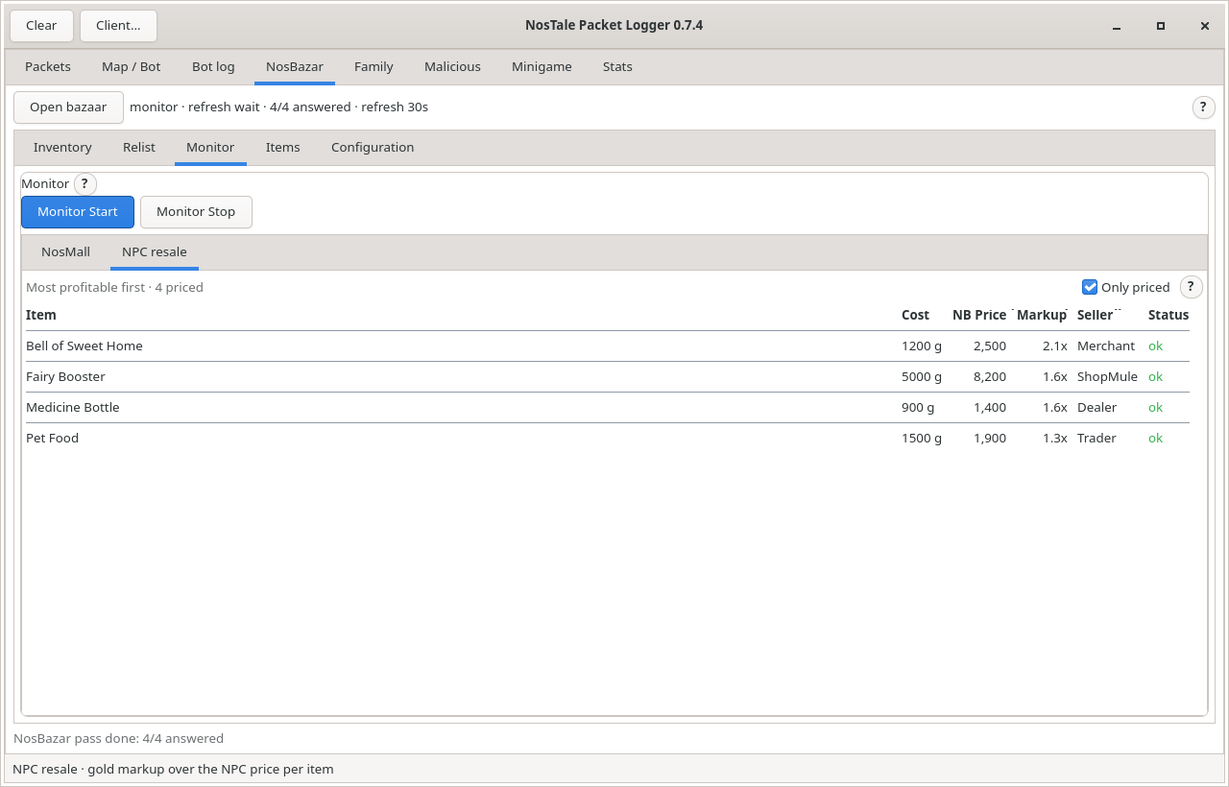
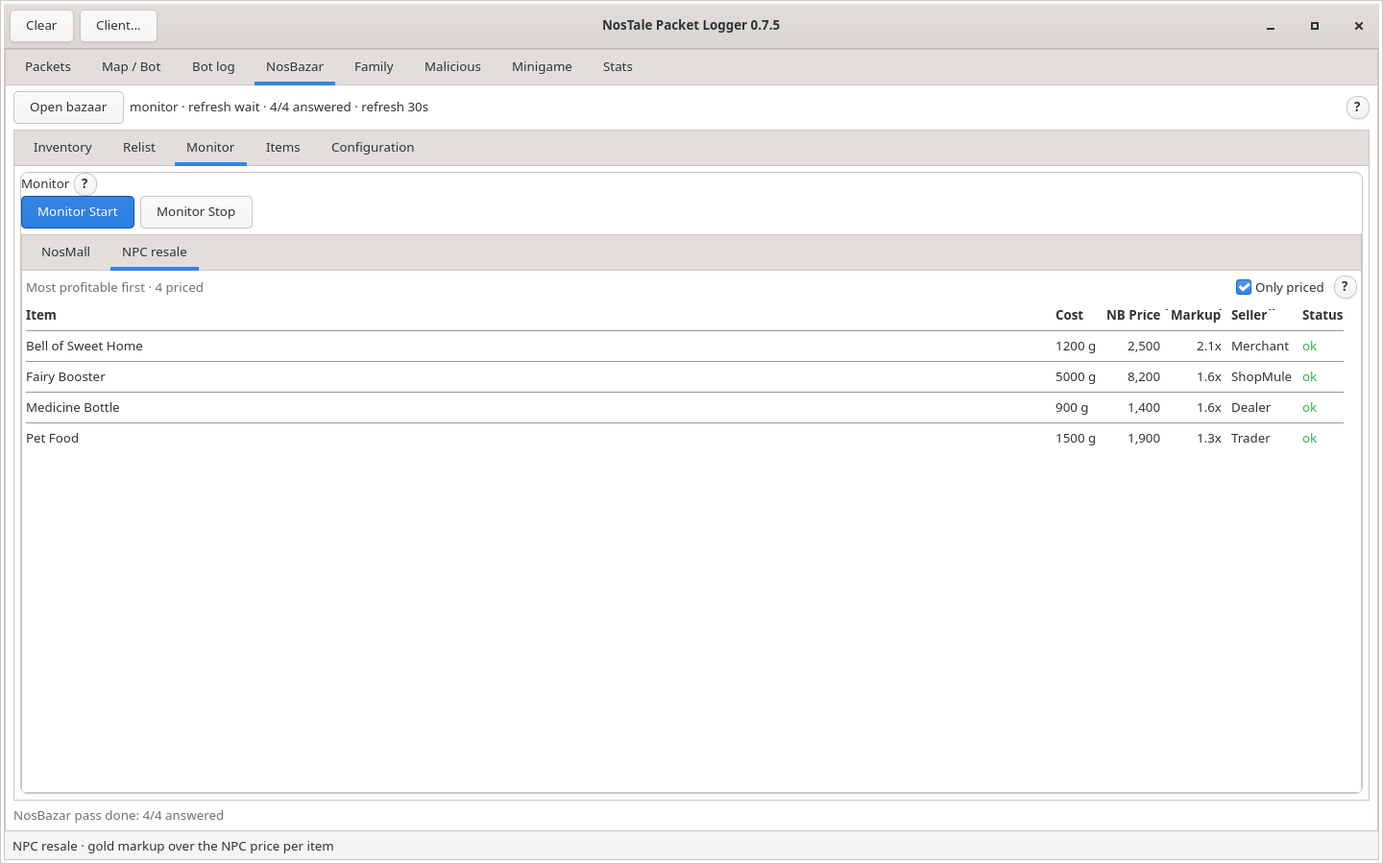
NosBazar relist: drop the allow-live checkbox, Relist Start is the gate
The Relist section required ticking "Allow live re-listing (changes your
listings)" before every start and reset it on every stop. Remove the
checkbox and the check: Relist Start itself is the user's go-ahead, and
the item floor, character name and relist-set ticks already guard what
it touches.

Update the smokes (relist/change/inventory scan), the help popover, the
docs and the Relist screenshot; host 0.7.5.

Changed region(s): [[0.0, 0.0, 1.0, 1.0], [0.9375, 0.0305, 0.9688, 0.061], [0.7812, 0.5488, 0.8125, 0.5793]]

diff --git a/linux/host/ntpl/gui.py b/linux/host/ntpl/gui.py
@@ -694,7 +694,6 @@ class Application(Gtk.Application):
         # Two-step confirmation for the destructive cleanup button.
         self._nosmall_prune_armed_at = 0.0
         self._nosmall_prune_count = 0
-        self.bazar_live_relist = None
         self.bazar_refresh_spin = None
         self.bazar_npc_entry = None
         self.bazar_character_entry = None
@@ -1447,9 +1446,6 @@ class Application(Gtk.Application):
             self.bazar_timer = None
         if self.bazar.running:
             self.bazar.stop(reason)
-        # Never leave the live-relist gate armed after a stop.
-        if self.bazar_live_relist is not None:
-            self.bazar_live_relist.set_active(False)
         self._bazar_update_info()
         self._bazar_update_relist_info()
 
@@ -1514,11 +1510,6 @@ class Application(Gtk.Application):
         return repaired
 
     def _bazar_start_relist(self) -> None:
-        if self.bazar_live_relist is None or not self.bazar_live_relist.get_active():
-            self._bazar_log(
-                "relisting is disabled; tick 'Allow live re-listing' first"
-            )
-            return
         if self.client is None or not self.client.connected:
             self._bazar_log("not connected")
             return
@@ -4223,15 +4214,6 @@ class Application(Gtk.Application):
         page.set_margin_end(6)
         content = Gtk.Box(orientation=Gtk.Orientation.VERTICAL, spacing=6)
 
-        self.bazar_live_relist = Gtk.CheckButton(
-            label="Allow live re-listing (changes your listings)"
-        )
-        self.bazar_live_relist.set_active(False)
-        self.bazar_live_relist.set_tooltip_text(
-            "Required for Relist Start; changes your prices and spends the fee."
-        )
-        content.append(self.bazar_live_relist)
-
         self.bazar_character_entry = Gtk.Entry()
         self.bazar_character_entry.set_placeholder_text("your character")
         self.bazar_character_entry.set_max_length(40)
@@ -4332,9 +4314,9 @@ class Application(Gtk.Application):
                     "selected), plus Select all shown and Unselect all. "
                     "Select an item, set the "
                     "exact Item vnum, the inventory Tab and the Amount, "
-                    "then a positive Min price (the per-unit floor). Tick "
-                    "Allow live re-listing and fill Character with your own "
-                    "name so the host never undercuts you. Relist Start "
+                    "then a positive Min price (the per-unit floor), and "
+                    "fill Character with your own name so the host never "
+                    "undercuts you. Relist Start needs nothing else: it "
                     "searches only the relist set and sends one c_reg per "
                     "eligible item per pass at cheapest minus one gold, "
                     "but never below the floor. If you already have a "

diff --git a/linux/test/gui_bazar_relist_smoke.py b/linux/test/gui_bazar_relist_smoke.py
@@ -1,8 +1,8 @@
 """Headless NosBazar relist smoke test.
 
-Exercises the risky half of the feature: the live-relist gate must do nothing
-until the checkbox is ticked, then the controller must undercut the fake
-cheapest listing by one gold and send the exact ``c_reg`` packet.
+Exercises the risky half of the feature: **Relist Start** is the only gate,
+then the controller must undercut the fake cheapest listing by one gold and
+send the exact ``c_reg`` packet.
 """
 
 from __future__ import annotations
@@ -57,14 +57,9 @@ def main() -> int:
             )
             app.bazar.set_items([item], character="root1", refresh=30)
             app.bazar_character_entry.set_text("root1")
-            # First attempt with the safety gate off: nothing must go out.
+            # Relist Start is the only gate; no extra checkbox to tick.
             app._bazar_start_relist()
-            gate_text = app.bazar_status.get_text() or ""
-            result["gate"] = (
-                not app.bazar.running and "disabled" in gate_text
-            )
-            app.bazar_live_relist.set_active(True)
-            app._bazar_start_relist()
+            result["gate"] = app.bazar.running
             GLib.timeout_add(5000, check)
         except Exception as exc:  # noqa: BLE001
             result["detail"] = f"start exception: {exc!r}"

diff --git a/linux/test/gui_inventory_scan_smoke.py b/linux/test/gui_inventory_scan_smoke.py
@@ -320,7 +320,6 @@ def main() -> int:
                 None if relist_item is None else relist_item.amount
             )
             app.bazar_character_entry.set_text("root1")
-            app.bazar_live_relist.set_active(True)
             app._bazar_start_relist()
             result["relist_mode"] = app.bazar.mode
             # A list rebuilt from later updates alone must be marked partial

diff --git a/linux/test/gui_bazar_change_smoke.py b/linux/test/gui_bazar_change_smoke.py
@@ -60,7 +60,6 @@ def main() -> int:
             )
             app.bazar.set_items([item], character="root1", refresh=30)
             app.bazar_character_entry.set_text("root1")
-            app.bazar_live_relist.set_active(True)
             app._bazar_start_relist()
             GLib.timeout_add(5000, check)
         except Exception as exc:  # noqa: BLE001

diff --git a/linux/host/ntpl/__init__.py b/linux/host/ntpl/__init__.py
@@ -16,7 +16,7 @@ from .protocol import (
     default_port,
 )
 
-__version__ = "0.7.4"
+__version__ = "0.7.5"
 
 __all__ = [
     "DEFAULT_HOST",

diff --git a/CLAUDE.md b/CLAUDE.md
@@ -32,7 +32,7 @@ the new window (or run `inject.sh` yourself).
 | `linux/` build | `make -C linux all test-host` is warning-free; all three outputs are PE32 i386. |
 | Linux host tests | 363/363 pass (`make -C linux host-test`); the native `speed-test` and `key-test` pass too. |
 | Game/packet DB | `ntpl db build` fills `~/.config/ntpl/nostale.db` (`NTPL_DB`) from the client archives plus 14 public projects cloned under `~/.cache/ntpl/sources` (`NTPL_SOURCE_CACHE`): 7,805 `Item.dat`, 2,723 `monster.dat`, 1,964 `Skill.dat`, 779 maps, 3,639 NosMall records / **1,184 searchable groups**, 1,004 indexed packet definitions (NosSmooth, NosCore.Packets, OpenNos, go-noskit, NosBazar, Gfless, auth/crypto, human-readable local wiki). Source text/license/commit kept in `source_files`; `ntpl db stats|sources|packets|items|nosmall` query it. The full NosMall catalog is `ntpl db nosmall --export FILE --all` or the GUI **Import NosMall…** picker (DB groups, `c_blist` built per group; the picker lists only groups with a known ND cost and excludes pets, fairies and partner supplies). NosMall ND prices are not in the client data; the curated reference costs plus the costs of already-configured items are the price map, so unpriced groups are not importable. Docs: `docs/database.md`. |
-| NosBazar tab | Fourth GUI page, ported from `TaraJura/Nostale-NB`: searches configured `c_blist` vnums (2.5 s pacing, one in flight, retry pass, waiting state), shows the cheapest listing (seller field 2, price field 6, vnum field 3), computes gold/ND or NPC markup, and optionally relists with `c_reg` (explicit checkbox + character name + positive `min_price` + inventory slot). The Bibi entity id/option are learned from the user's own `npc_req`/`n_run` or the DLL log (`spawnlog.load_bazaar_open`), but an id this map's entity list knows as a non-Bibi entity is refused (entity ids are per map instance; live 2026-11-23 a stale id opened Carve Runes), so Start waits until a real Bibi is visible instead of opening a random NPC dialog; inventory is `inv`/`ivn` in `WorldState.inventory`, backfilled from the log (`spawnlog.load_inventory`) and parsed by `engine.parse_inventory_token`, which keeps equipment bags 0/6/7, extra fields, quantity-0 rows and bound negative vnums. The NosBazar page has a second-level navbar: **Inventory**, **Relist**, **Monitor**, **Items** and **Configuration**. **Inventory** loads names/NPC prices from the local DB first (`database.item_info`, `Item.dat` fallback) as soon as the section opens (an empty lookup retries on a later page show; **Configuration → Reload names** forces a reload after rebuilding a stale DB, no restart) and shows every slot with its Item.dat name/NPC price and known ND cost; the **Monitor** table, **Relist** list and **Items** list show the same real name for each item's vnum (exact `vnum`, else the first resolving search-group vnum), using the configured `name` only when no vnum resolves — the shortcut stays the config/result key, appears in the item's tooltip with the search vnums, and is what the editor's **Name** field edits; **Set up relist…** adds one checked item with its exact vnum/tab/amount and opens **Relist**, whose compact editor sets vnum/tab/amount/min, marks items ready/needs-floor/needs-vnum-tab/not-relisting and starts `c_reg`; the **Relist** list is the `BazarItem.relist` set, with a per-row tick to add or remove an item (removal keeps it configured, monitored and its floor), **Add from Items** / **Add from Inventory** / **Remove from relisting** buttons, an **Only relisting** filter and Ctrl+click multi-selection behind **Group actions…** (**Select all shown**, **Unselect all**, **Relist all shown**, **Stop relisting all shown**, **Relist selected**, **Stop relisting selected**; one config save per group action); a tick updates its row in place and every render restores the scroll adjustment, so a scrolled list does not jump to the top; the **Items** editor has **Monitor**/**Relist** tracking switches; `Relist Start` queues only `BazarController.relist_items()`, while Monitor searches every `enabled_items()` (a config without the flag infers `relist` from `min_price > 0`; inventory additions start monitor-only); the server acknowledges an accepted `c_reg` with `rc_reg` (3 s timeout → `register ignored (no rc_reg)`), but only with the NosBazar window open (`wopen 32`; `rc_blist` is answered without it — live 2026-11-23 it answered while Carve Runes was open and every c_reg was ignored); when the bazaar was already open before the host attached the server sends no new `wopen`, so a verified Bibi dialog (`npc_req 2 <id> 460`; Carve Runes opens 11009 and is never clicked) plus the listing answer is accepted and the scan continues; a visible Bibi Basar is opened through `npc_req`/`n_run`; a client whose own shortcut opens the bazaar (FrosTale: a bare `c_skill` answered by `wopen 32`, learned live or from the DLL log by `spawnlog.load_bazaar_skill`) is replayed first; with none visible the controller uses the portable NosBazar medal (vnum 1955, `u_i 1 <charId> <bag> <slot> 0 0`) and waits for `wopen 32` (a stale unknown NPC id is only tried when no medal exists); each relist pass asks the seller tab (`c_slist 0 0 0` → `rc_slist`, parsed by `parse_rc_slist` with listing id, vnum, sold amount, amount and price): when our own listing of the item has **sold 0** the pass reprices it with the client's own Change action `c_mod 0 1 <listingId> <vnum> <amount> <price>` (no inventory slot needed; confirmed by the refreshed seller list carrying the new price; live-verified packet shape 2026-11-23) instead of adding a new listing, and only a listing with any amount sold (Change gone) or no own listing gets `c_reg`; `build_register_packet` sends the client's exact twelve-field `c_reg` and its fee is `max(50, int(price*amount*0.0005))` — the live server silently drops a registration whose fee is below the 50-gold minimum (2026-11-23: failures carried 4/23/28 gold, accepted packets at least 50); the DLL log is seeded once per attach (Rescan forces a re-read) and the reader re-reads the DLL port file on every failed connect, so a reused Windows PID with a stale port file (live 2026-11-23: 47823 vs the DLL's 47822) recovers by itself; Relist Start repairs only the first constant for Main/Etc items (`unk1 = 8 + INDEX[0]`; `unk2` is item-specific and left as configured); a repeated click on the only selected relist row unselects it; **Price all** adds one search per distinct inventory template (deduped by absolute vnum) and starts Monitor — never a relist. **Monitor** has a third-level navbar: **NosMall** (positive `nos_cost`; gold/ND) and **NPC resale** (NPC `npc_cost`; the Markup column is listing ÷ NPC price, e.g. Pet Food or Bell of Sweet Home); one Start/Stop searches both, each view has its own **Only priced** and row count, and the editor's Cost type chooses the view (NPC gold auto-fills from Item.dat when left at 0). **Items** is the full search editor/import, **Configuration** the Bibi id/refresh/config file plus **Reload names** (re-read item names after a DB rebuild). Equipment quantity 0 counts as amount 1; negative vnums are searched by magnitude but cannot be relisted. The server sends `inv` only at login; when the 16 MB DLL log was truncated before the dump (`spawnlog.log_was_truncated`), the Inventory section says so (a list built from later `ivn` updates alone is marked partial) and a relog/change channel with the window open fills it automatically. Every complete inventory is cached per character at `~/.config/ntpl/inventory-<char_id>.json` (`NTPL_INVENTORY_DIR`) and loaded when live/log data is missing, shown as `cached <time>`. Proof: `gui_inventory_scan_smoke.py` (including cache save/restore), `gui_relist_track_smoke.py` (relist-set ticks, add/remove, persistence), `test_inventory_cache.py`. Live capture 2026-11-19: NPC 10284, `n_run 60 0 2 10284`, `wopen 32 2 717`, 15-field `rc_blist` entries (`ownerName` 2, `vnum` 3, `amount` 4, `price` 6); the DLL's 2048-byte slot truncates long answers, so the parser keeps every intact entry, takes the minimum visible price and flags `truncated`. Config per client: `~/.config/ntpl/bazar-<pid>.json` (`NTPL_BAZAR_CONFIG` overrides). Docs: `docs/bazar.md`, `docs/protocol/bazaar.md`. |
+| NosBazar tab | Fourth GUI page, ported from `TaraJura/Nostale-NB`: searches configured `c_blist` vnums (2.5 s pacing, one in flight, retry pass, waiting state), shows the cheapest listing (seller field 2, price field 6, vnum field 3), computes gold/ND or NPC markup, and optionally relists (a character name + positive `min_price`; Relist Start is the only switch, there is no extra allow-live checkbox). The Bibi entity id/option are learned from the user's own `npc_req`/`n_run` or the DLL log (`spawnlog.load_bazaar_open`), but an id this map's entity list knows as a non-Bibi entity is refused (entity ids are per map instance; live 2026-11-23 a stale id opened Carve Runes), so Start waits until a real Bibi is visible instead of opening a random NPC dialog; inventory is `inv`/`ivn` in `WorldState.inventory`, backfilled from the log (`spawnlog.load_inventory`) and parsed by `engine.parse_inventory_token`, which keeps equipment bags 0/6/7, extra fields, quantity-0 rows and bound negative vnums. The NosBazar page has a second-level navbar: **Inventory**, **Relist**, **Monitor**, **Items** and **Configuration**. **Inventory** loads names/NPC prices from the local DB first (`database.item_info`, `Item.dat` fallback) as soon as the section opens (an empty lookup retries on a later page show; **Configuration → Reload names** forces a reload after rebuilding a stale DB, no restart) and shows every slot with its Item.dat name/NPC price and known ND cost; the **Monitor** table, **Relist** list and **Items** list show the same real name for each item's vnum (exact `vnum`, else the first resolving search-group vnum), using the configured `name` only when no vnum resolves — the shortcut stays the config/result key, appears in the item's tooltip with the search vnums, and is what the editor's **Name** field edits; **Set up relist…** adds one checked item with its exact vnum/tab/amount and opens **Relist**, whose compact editor sets vnum/tab/amount/min, marks items ready/needs-floor/needs-vnum-tab/not-relisting and relists (the in-game Change `c_mod` for an unsold own listing, else a new `c_reg`); the **Relist** list is the `BazarItem.relist` set, with a per-row tick to add or remove an item (removal keeps it configured, monitored and its floor), **Add from Items** / **Add from Inventory** / **Remove from relisting** buttons, an **Only relisting** filter and Ctrl+click multi-selection behind **Group actions…** (**Select all shown**, **Unselect all**, **Relist all shown**, **Stop relisting all shown**, **Relist selected**, **Stop relisting selected**; one config save per group action); a tick updates its row in place and every render restores the scroll adjustment, so a scrolled list does not jump to the top; the **Items** editor has **Monitor**/**Relist** tracking switches; `Relist Start` queues only `BazarController.relist_items()`, while Monitor searches every `enabled_items()` (a config without the flag infers `relist` from `min_price > 0`; inventory additions start monitor-only); the server acknowledges an accepted `c_reg` with `rc_reg` (3 s timeout → `register ignored (no rc_reg)`), but only with the NosBazar window open (`wopen 32`; `rc_blist` is answered without it — live 2026-11-23 it answered while Carve Runes was open and every c_reg was ignored); when the bazaar was already open before the host attached the server sends no new `wopen`, so a verified Bibi dialog (`npc_req 2 <id> 460`; Carve Runes opens 11009 and is never clicked) plus the listing answer is accepted and the scan continues; a visible Bibi Basar is opened through `npc_req`/`n_run`; a client whose own shortcut opens the bazaar (FrosTale: a bare `c_skill` answered by `wopen 32`, learned live or from the DLL log by `spawnlog.load_bazaar_skill`) is replayed first; with none visible the controller uses the portable NosBazar medal (vnum 1955, `u_i 1 <charId> <bag> <slot> 0 0`) and waits for `wopen 32` (a stale unknown NPC id is only tried when no medal exists); each relist pass asks the seller tab (`c_slist 0 0 0` → `rc_slist`, parsed by `parse_rc_slist` with listing id, vnum, sold amount, amount and price): when our own listing of the item has **sold 0** the pass reprices it with the client's own Change action `c_mod 0 1 <listingId> <vnum> <amount> <price>` (no inventory slot needed; confirmed by the refreshed seller list carrying the new price; live-verified packet shape 2026-11-23) instead of adding a new listing, and only a listing with any amount sold (Change gone) or no own listing gets `c_reg`; `build_register_packet` sends the client's exact twelve-field `c_reg` and its fee is `max(50, int(price*amount*0.0005))` — the live server silently drops a registration whose fee is below the 50-gold minimum (2026-11-23: failures carried 4/23/28 gold, accepted packets at least 50); the DLL log is seeded once per attach (Rescan forces a re-read) and the reader re-reads the DLL port file on every failed connect, so a reused Windows PID with a stale port file (live 2026-11-23: 47823 vs the DLL's 47822) recovers by itself; Relist Start repairs only the first constant for Main/Etc items (`unk1 = 8 + INDEX[0]`; `unk2` is item-specific and left as configured); a repeated click on the only selected relist row unselects it; **Price all** adds one search per distinct inventory template (deduped by absolute vnum) and starts Monitor — never a relist. **Monitor** has a third-level navbar: **NosMall** (positive `nos_cost`; gold/ND) and **NPC resale** (NPC `npc_cost`; the Markup column is listing ÷ NPC price, e.g. Pet Food or Bell of Sweet Home); one Start/Stop searches both, each view has its own **Only priced** and row count, and the editor's Cost type chooses the view (NPC gold auto-fills from Item.dat when left at 0). **Items** is the full search editor/import, **Configuration** the Bibi id/refresh/config file plus **Reload names** (re-read item names after a DB rebuild). Equipment quantity 0 counts as amount 1; negative vnums are searched by magnitude but cannot be relisted. The server sends `inv` only at login; when the 16 MB DLL log was truncated before the dump (`spawnlog.log_was_truncated`), the Inventory section says so (a list built from later `ivn` updates alone is marked partial) and a relog/change channel with the window open fills it automatically. Every complete inventory is cached per character at `~/.config/ntpl/inventory-<char_id>.json` (`NTPL_INVENTORY_DIR`) and loaded when live/log data is missing, shown as `cached <time>`. Proof: `gui_inventory_scan_smoke.py` (including cache save/restore), `gui_relist_track_smoke.py` (relist-set ticks, add/remove, persistence), `test_inventory_cache.py`. Live capture 2026-11-19: NPC 10284, `n_run 60 0 2 10284`, `wopen 32 2 717`, 15-field `rc_blist` entries (`ownerName` 2, `vnum` 3, `amount` 4, `price` 6); the DLL's 2048-byte slot truncates long answers, so the parser keeps every intact entry, takes the minimum visible price and flags `truncated`. Config per client: `~/.config/ntpl/bazar-<pid>.json` (`NTPL_BAZAR_CONFIG` overrides). Docs: `docs/bazar.md`, `docs/protocol/bazaar.md`. |
 | Headless client | `ntpl headless` ports NosBazar's login cipher, `NoS0577`/`NsTeST` and world handshake to Python. Live 2026-11-08: the login server at `79.110.84.75:4000` answers `failc 1` to an invalid token, proving the packet layout, client version/hash and login cipher. The v2 email/password login is **live-validated (201)**; without an identity file the client signs in through gameforge.com's own form in headless Chrome (Node/CDP; the site solves its PoW challenge) and **iovation returns 200**. The final `thin/codes` call returns `403 Not allowed to create code` for browser-generated devices (the official client adds a `codeId` authorization ticket; Gfless uses a captured identity). A 30-value identity (`--identity`) or a launcher token (`--token-file`) is needed for the game token. The **image-drop captcha** is handled in one GTK window; the website PoW is handled by the site. Docs: `docs/headless.md`. |
 | MCP (agent access) | `python3 -m ntpl mcp` speaks MCP JSON-RPC over stdio and exposes 22 tools (state, entities, drops, map, portals, time-spaces, A* path, spells, move/travel, attack/cast, raw send, rest, resync, pickup, wait, memory). It owns the DLL's single host connection and rebroadcasts it on `127.0.0.1:47900`; run the GUI with `--port 47900`. The DLL port is discovered from its `C:\ntpl-<pid>.port` file (the DLL may have fallen back from 47821 to 47822+). The DLL accepts a host only while none is connected (a second connection waits in the backlog), so a GUI→MCP handover pauses the GUI and destroys its socket; the GUI reconnects afterwards. At startup the service seeds `world.entities` from the attached client's log (`spawnlog.load_entities`: `in`/`mv`/`tp`/`out`, map-change clears), so stationary monsters are known. `game_resync` sends `walk -1 -1 0 10` and applies the server's `tp` when the client desyncs after a warp. `.mcp.json` is committed; docs in `docs/mcp.md` and `docs/autonomous-play.md`. |
 | Autonomous play | Playbook in `docs/autonomous-play.md`: observe → decide → act → confirm → survive. Live 2026-11-22 on client winPID 1996 (char 10170): Ranger card 903 equipped (`u_i … 6 0`, server `sc`/`ivn`/`eq`/`sp`), Warp Tower NPC 955/entity 3095 dialog 439 → `n_run 16 1 2 3095` → map 20 Mountain Cave 1, `walk -1 -1` resync → `tp 15 96`, then a Wolf (vnum 200) killed with skill 833 (`su` HP 4366→0) and two attacking wolves killed in self-defence; final HP 91%, GUI reconnected, game never closed. |

diff --git a/docs/bazar.md b/docs/bazar.md
@@ -97,8 +97,9 @@ full-width section: **Inventory**, **Relist**, **Monitor**, **Items** and
    shows the real item name too. **Import NosMall…** adds whole catalog
    groups with a ready `c_blist` packet; **New** and **Delete** edit the
    list.
-7. To relist, tick **Allow live re-listing (changes your listings)** in the
-   **Relist** section and click **Relist Start**. **Relist Stop** stops it.
+7. To relist, click **Relist Start** in the **Relist** section. **Relist
+   Stop** stops it. (Relist Start is the only switch; there is no extra
+   "allow live re-listing" checkbox.)
 
 ## Monitor views
 
@@ -237,8 +238,7 @@ ivn 0 30.885.0.0.0.0.0                     # one equipment slot
   has one; otherwise a positive Item.dat NPC price becomes **NPC gold** cost,
   so the profit column still works. Both can be cleared in the editor.
 - **Price all** adds every distinct inventory item and starts **Monitor**
-  (search only). It does not change listings even when live re-listing is
-  armed; use **Relist Start** for that.
+  (search only). It never changes listings; use **Relist Start** for that.
 
 ## Item names
 
@@ -311,10 +311,9 @@ row by itself: tick **Relist** (or use Set up relist… / Add from…) to put
 the item in the set.
 
 To run it:
-1. Tick **Allow live re-listing (changes your listings)**.
-2. Fill **Character** with your exact character name (used to recognise your
+1. Fill **Character** with your exact character name (used to recognise your
    own listing).
-3. Click **Relist Start**.
+2. Click **Relist Start** — it is the only gate, nothing else to tick.
 
 The controller opens the bazaar if needed, asks the seller tab for our own
 listings (`c_slist 0 0 0`), searches only the relist set at the 2.5 s
@@ -375,9 +374,8 @@ temporary file). Before a client is attached the tab starts empty; when a
 client attaches and has no per-client file, `~/.config/ntpl/bazar.json` is
 loaded as a seed and saved per-client on the next change. The **Configuration**
 section holds the Bibi id, refresh interval, this file and **Reload names**
-(re-read item names after rebuilding the database); the Character name and
-live-relisting gate live in the **Relist** section because they only apply to
-relisting.
+(re-read item names after rebuilding the database); the Character name lives
+in the **Relist** section because it only applies to relisting.
 
 Example:
 
@@ -510,9 +508,10 @@ Items list and the Relist list from the shortcut to the real name without
 overwriting unsaved editor values, that the row copy label and the Delete
 message (even while a pass stops) use the real name, that **Reload names**
 drops the one-shot name cache, and that no `c_reg` was sent.
-`gui_bazar_relist_smoke.py` checks that the live-relist gate blocks the first
-attempt and then asserts the exact `c_reg` packet and the `register-sent`
-status. `gui_inventory_scan_smoke.py` feeds the live inventory shapes
+`gui_bazar_relist_smoke.py` starts the relist with a plain **Relist Start**
+(no extra checkbox) and asserts the exact `c_reg` packet and the
+`register-sent` status; `gui_bazar_change_smoke.py` asserts the `c_mod`
+change path instead. `gui_inventory_scan_smoke.py` feeds the live inventory shapes
 (3/5/7-field tokens, quantity 0, negative vnums), asserts the Inventory
 section rows/names/fields, adds one item and then prices the whole inventory
 without duplicates, checks **Set up relist…** switches to the Relist section

diff --git a/docs/troubleshooting.md b/docs/troubleshooting.md
@@ -118,7 +118,7 @@
 | Relist item says `register ignored (no rc_reg)` | the server silently dropped the `c_reg`: the bazaar window was not open, the slot or item constants no longer match the live inventory, or the listing fee was below the 50-gold minimum (before 0.7.2 the cheap listings sent 4/23/28 gold and were ignored) | check the window first (`wopen 32`); then press **Relist Start** again — it repairs `unk1 = 8 + INDEX[0]` for Main/Etc items (`unk2` stays as configured), sends the client's exact packet and charges `max(50, 0.05 %)`; verify the listing in the bazaar |
 | Relist added a second listing instead of changing the first | the in-game **Change** action disappears as soon as any amount of that listing has sold; the bot can then only add | expected: the relist reprices an unsold listing with `c_mod` (status `price changed (c_mod)`) and adds with `c_reg` only when Change is unavailable. Cancel the stale listing by hand if you do not want two |
 | Relist says `price change not confirmed` | the `c_mod` went out but no refreshed seller list with the new price arrived (rate limit, or the Change action was no longer offered) | press **Relist Start** again; the next pass re-reads the seller tab and either changes another unsold listing or adds one |
-| Relist Start does nothing or says the character is missing | Character empty, live-relist gate off, item not in that tab/quantity, or the cheapest listing is yours/below the floor | fill the exact character name, tick **Allow live re-listing**, check the result status for `own`, `floor`, `no-slot` or `quantity` |
+| Relist Start does nothing or says the character is missing | Character empty, item not in that tab/quantity, or the cheapest listing is yours/below the floor | fill the exact character name, check the result status for `own`, `floor`, `no-slot` or `quantity` |
 | A bound/limited inventory item cannot be relisted | its slot carries a negative vnum; `find_inventory` only matches positive templates | monitor/search by the absolute vnum; relisting a bound item is intentionally skipped |
 | Equipment row shows `qty 0` | the server reports quantity 0 for occupied equipment rows (not a stack) | expected; the scan counts it as one item and relist uses amount 1 |
 | Spell rule never casts | not enough MP, target out of the spell's own range, rule/spell cooldown still running, or a higher rule is always winning | check the rule's description metadata; wait, move closer, raise MP, or reorder/disable the higher rule |

diff --git a/README.md b/README.md
@@ -85,8 +85,8 @@ The relist set. Tick a row to add it, untick to keep watching without
 changing its listing; **Add from Items** / **Add from Inventory** / **Remove
 from relisting**, **Only relisting**, Ctrl+click and **Group actions…**. Set
 the exact **Item vnum / Tab / Amount** and a positive **Min price**; the badge
-reads `ready` / `needs floor` / `needs vnum/tab`. With **Allow live
-re-listing** and your **Character** name, **Relist Start** opens the bazaar
+reads `ready` / `needs floor` / `needs vnum/tab`. With your **Character**
+name filled, **Relist Start** opens the bazaar
 itself (Bibi Basar, the portable NosBazar medal, or the client's own
 shortcut), undercuts the cheapest other listing by one gold — never below the
 floor — and charges the bazaar's 50-gold minimum listing fee. If you already
@@ -229,7 +229,7 @@ Start with [docs/architecture.md](docs/architecture.md), then:
 
 ## Status
 
-Host **0.7.4** (Linux): 363 unit tests, 6 GTK4 window smokes and 44
+Host **0.7.5** (Linux): 363 unit tests, 6 GTK4 window smokes and 44
 fake-server bot smokes pass, and the real injector has been run against the
 live NosTale client under Wine 11 — both hooks `ACTIVE`, movement through the
 client's own MoveTo, auto-attack confirmed by the server's `su`, and the

diff --git a/docs/context.md b/docs/context.md
@@ -9,7 +9,7 @@ the data layer in [database.md](database.md).
 
 - **Linux host**: 363 unittest cases, 6 GTK4 smokes, 44 fake-server bot
   smokes, and the native `speed-test` and `key-test` pass. Build: `make -C
-  linux all test-host`, tests above. The host is **0.7.4**: it opens the
+  linux all test-host`, tests above. The host is **0.7.5**: it opens the
   bazaar with the client's own shortcut (`c_skill` → `wopen 32`, FrosTale)
   when no Bibi or medal is available, and charges the bazaar's **50-gold
   minimum listing fee** in `c_reg` (the server silently drops a registration
@@ -90,7 +90,7 @@ the data layer in [database.md](database.md).
   per-row tick, **Add from Items** / **Add from Inventory**, **Remove from
   relisting**), an **Only relisting** filter, Ctrl+click multi-selection and
   **Group actions…** (select/unselect all, relist/stop all shown or
-  selected); the live checkbox, a character name and a positive floor.
+  selected); a character name and a positive floor (Relist Start is the only switch).
   Each pass asks the seller tab (`c_slist` → **`rc_slist`**) for our own
   listings: one with **nothing sold** is repriced with the in-game Change
   action (`c_mod`, no inventory slot needed, confirmed by the refreshed

diff --git a/docs/minigame.md b/docs/minigame.md
@@ -90,7 +90,7 @@ accepts both.
   `linux/build/PacketLogger.dll` is not enough: the old module stays mapped in
   the running client. Restart the game client and inject again (the picker's
   **Inject & connect**), then the window title/status shows `DLL 0.3.0`.
-- Host **0.6.0 or newer** for the tab (0.7.4 today). Only a GUI restart is
+- Host **0.6.0 or newer** for the tab (0.7.5 today). Only a GUI restart is
   needed for host changes.
 - The game window attached to this GUI window. The tab is per client, like the
   Family and NosBazar pages.
